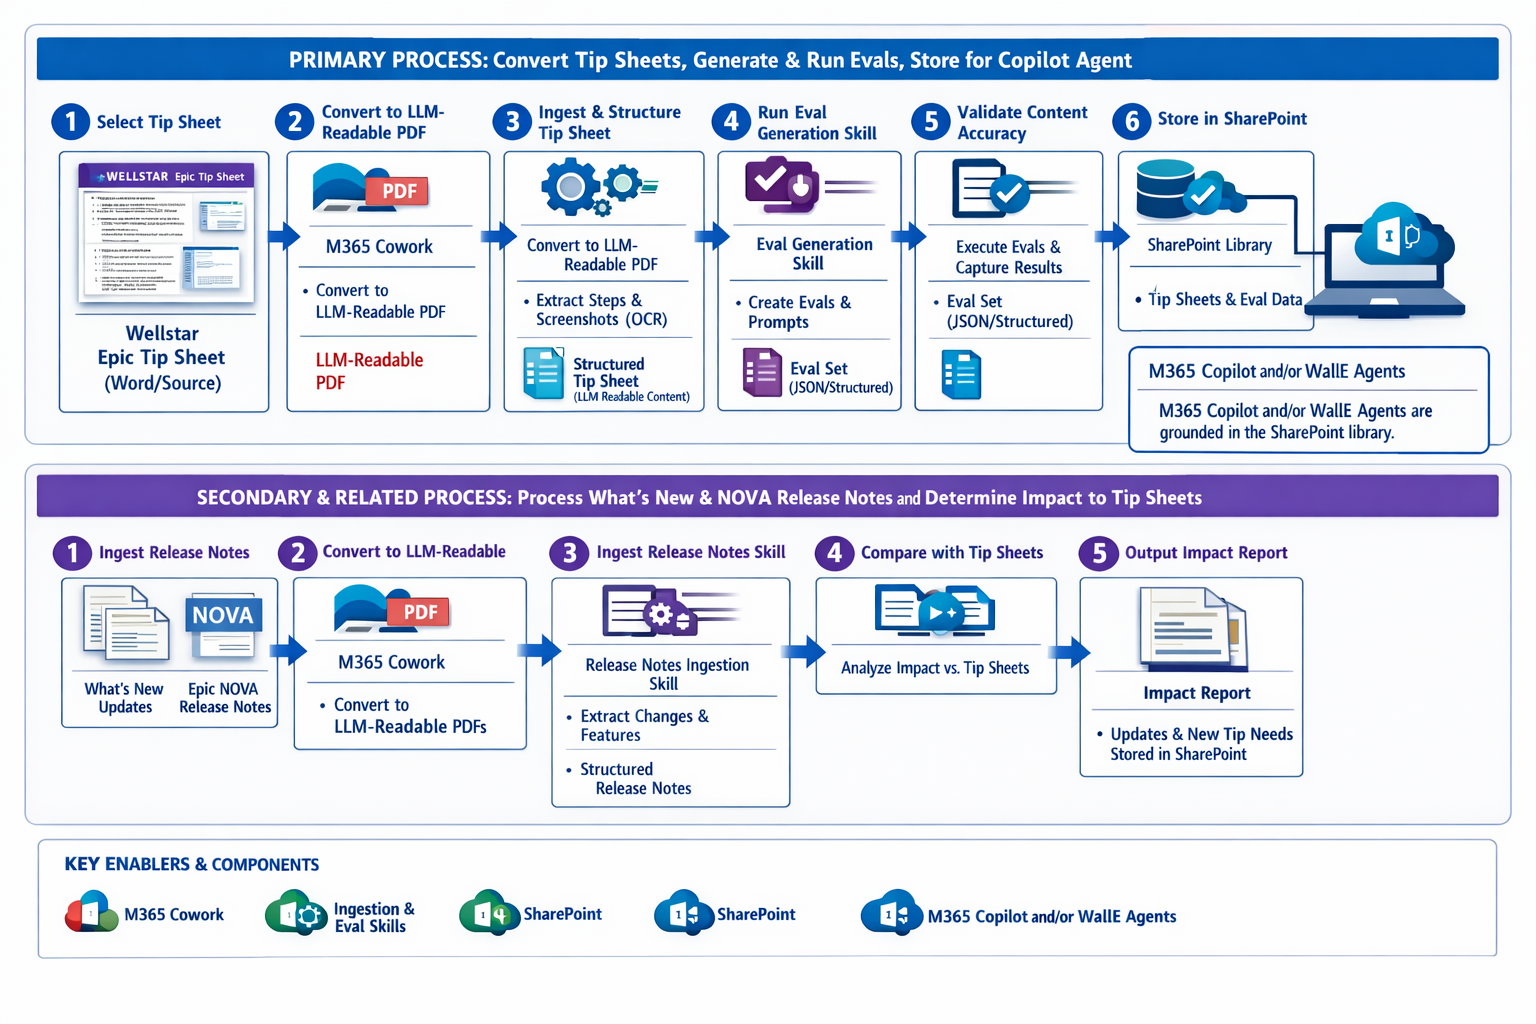
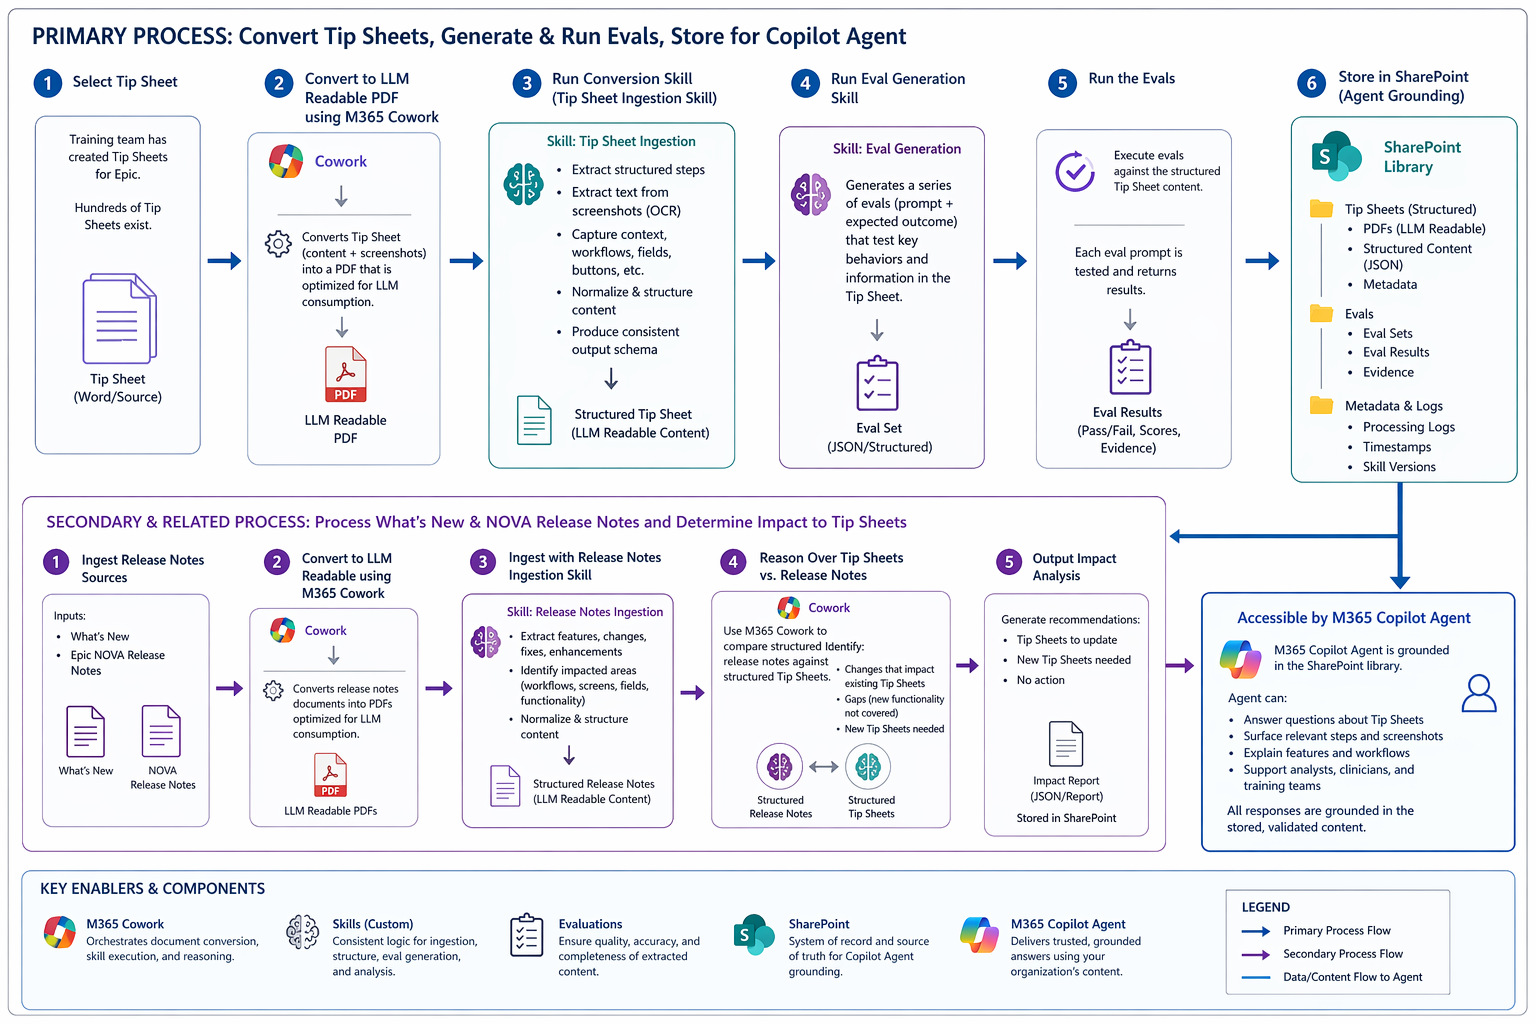
docs: update README for M365 Copilot Cowork and refresh process diagram
- Rebrand as powered by M365 Copilot Cowork throughout
- Expand primary process to 6 detailed steps matching updated diagram
- Add M365 Copilot Agent grounding section
- Update Key Enablers as structured table
- Replace process diagram with corrected version

diff --git a/README.md b/README.md
@@ -1,6 +1,6 @@
 # Epic Tip Sheet Optimizer
 
-Skills, processes, and artifacts for converting screenshot-heavy Epic training tip sheets into LLM-readable knowledge bases — with structured eval generation and validation — so Copilot agents can actually use them.
+Skills, processes, and artifacts — powered by **M365 Copilot Cowork** — for converting screenshot-heavy Epic training tip sheets into LLM-readable knowledge bases with structured eval generation and validation, so M365 Copilot agents can actually use them.
 
 ## Problem Statement
 
@@ -16,7 +16,7 @@ This repo provides the **Copilot skills and processes** to solve this at scale.
 
 ## How It Works
 
-The solution is a two-track process powered by GitHub Copilot skills that can be run inside VS Code or any Copilot-enabled environment.
+The solution is a two-track process powered by **M365 Copilot Cowork** — which orchestrates document conversion, skill execution, and reasoning — combined with custom Copilot skills that handle ingestion, eval generation, and analysis.
 
 ![Tip Sheet End-to-End Process](Assets/TipSheetEndtoEnd.png)
 
@@ -31,22 +31,36 @@ The solution is a two-track process powered by GitHub Copilot skills that can be
 | **5** | **Validate Content Accuracy** | Run the **Eval Runner** skill — executes the eval against the structured content, producing a scorecard with pass/fail, category breakdowns, and per-question results |
 | **6** | **Store in SharePoint** | Publish the validated tip sheet and eval data to a SharePoint library where M365 Copilot and/or WallE agents are grounded |
 
-### Secondary Process: Process Release Notes & Determine Impact to Tip Sheets
+### Secondary & Related Process: Process What's New & NOVA Release Notes and Determine Impact to Tip Sheets
 
 | Step | Action | Details |
-|------|--------|---------|
-| **1** | **Ingest Release Notes** | Collect What's New updates and Epic NOVA release notes |
-| **2** | **Convert to LLM-Readable** | Use M365 Cowork to convert release notes into LLM-readable PDFs |
-| **3** | **Ingest Release Notes Skill** | Extract changes and features into structured release notes |
-| **4** | **Compare with Tip Sheets** | Analyze the impact of release changes against existing structured tip sheets |
-| **5** | **Output Impact Report** | Produce an impact report identifying which tip sheets need updates and what new tip sheets are needed, stored in SharePoint |
+|------|--------|--------|
+| **1** | **Ingest Release Notes Sources** | Collect What's New updates and Epic NOVA release notes |
+| **2** | **Convert to LLM-Readable using M365 Cowork** | Cowork converts release notes documents into PDFs optimized for LLM consumption |
+| **3** | **Ingest with Release Notes Ingestion Skill** | Extract features, changes, fixes, and enhancements; identify impacted areas (workflows, screens, fields, functionality); normalize and structure content |
+| **4** | **Reason Over Tip Sheets vs. Release Notes** | Use M365 Cowork to compare structured release notes against structured tip sheets — identify changes that impact existing tip sheets, gaps (new functionality not covered), and new tip sheets needed |
+| **5** | **Output Impact Analysis** | Generate recommendations: tip sheets to update, new tip sheets needed, or no action — stored as an impact report (JSON/Report) in SharePoint |
+
+### Accessible by M365 Copilot Agent
+
+The M365 Copilot Agent is grounded in the SharePoint library and can:
+
+- Answer questions about tip sheets
+- Surface relevant steps and screenshots
+- Explain features and workflows
+- Support analysts, clinicians, and training teams
+
+All responses are grounded in the stored, validated content.
 
 ### Key Enablers & Components
 
-- **M365 Cowork** — Document conversion to LLM-readable formats
-- **Ingestion & Eval Skills** — The Copilot skills in this repo
-- **SharePoint** — Storage and grounding source for Copilot agents
-- **M365 Copilot and/or WallE Agents** — Downstream consumers grounded in the SharePoint library
+| Component | Role |
+|-----------|------|
+| **M365 Cowork** | Orchestrates document conversion, skill execution, and reasoning |
+| **Skills (Custom)** | Consistent logic for ingestion, structure, eval generation, and analysis |
+| **Evaluations** | Ensure quality, accuracy, and completeness of extracted content |
+| **SharePoint** | System of record and source of truth for Copilot Agent grounding |
+| **M365 Copilot Agent** | Delivers trusted, grounded answers using your organization's content |
 
 ## Repository Structure
 
